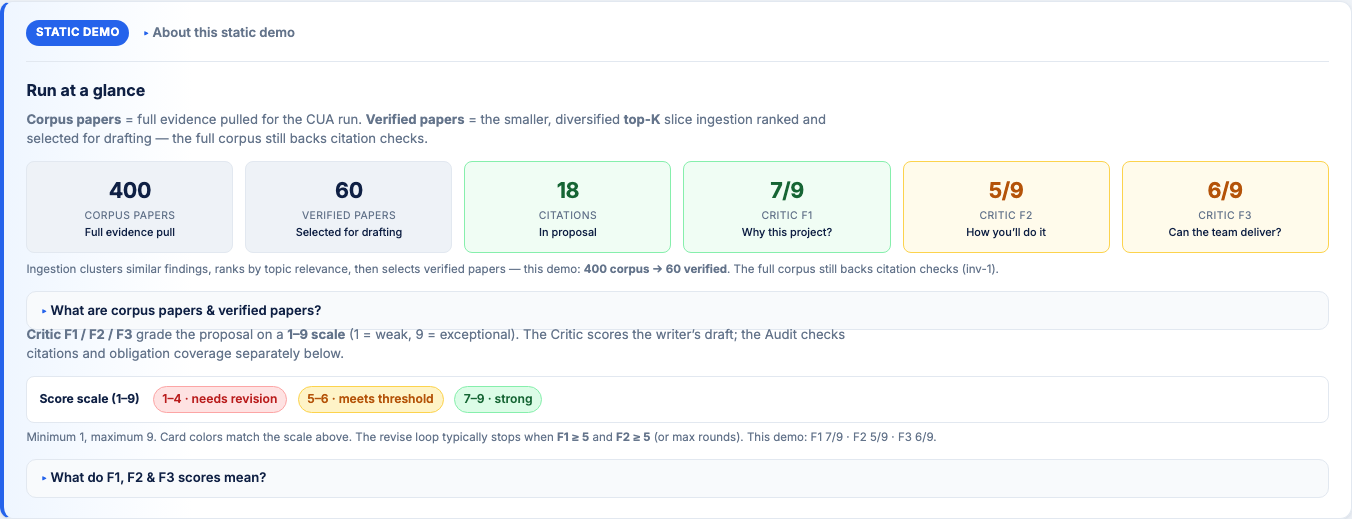
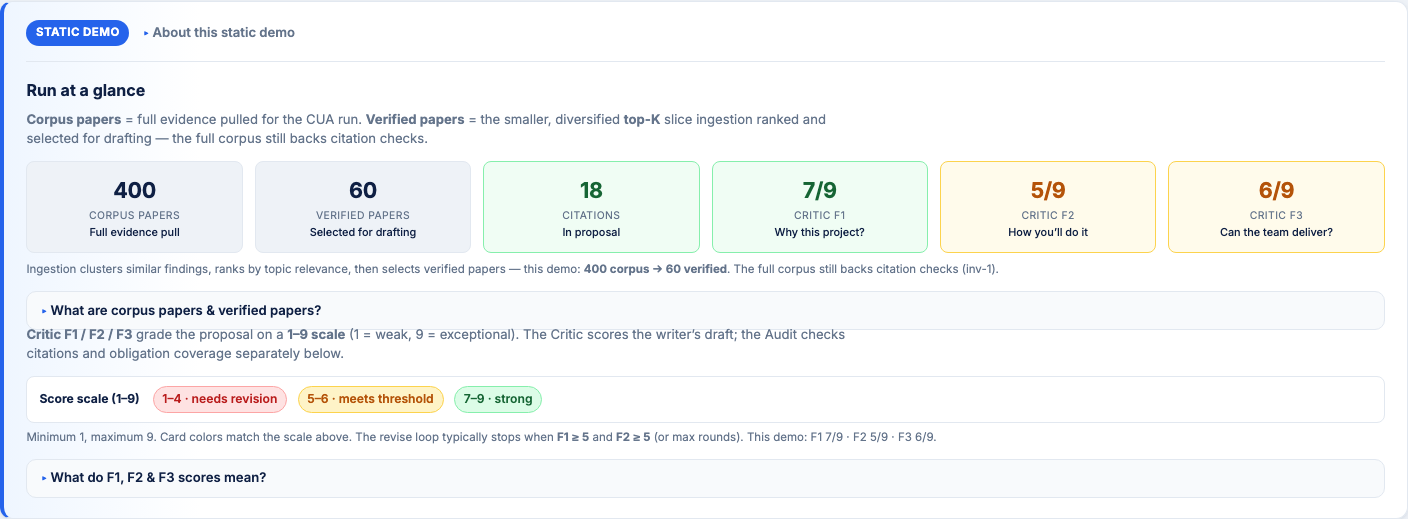
Use full-width dashboard layout with minimal side padding on all tabs.
Removes the 1400px centered column so Step 1–3 content spans the viewport; refreshes docs and screenshots.

diff --git a/neurodiscover/frontend/index.html b/neurodiscover/frontend/index.html
@@ -24,6 +24,7 @@
       --text: #0f172a;
       --muted: #64748b;
       --shadow: 0 1px 3px rgba(15,32,68,0.08), 0 4px 12px rgba(15,32,68,0.04);
+      --page-pad: 1rem;
     }
     * { box-sizing: border-box; }
     body {
@@ -38,10 +39,10 @@
     header {
       background: linear-gradient(135deg, var(--navy) 0%, var(--navy-light) 100%);
       color: #fff;
-      padding: 1rem 1.5rem 0.85rem;
+      padding: 1rem var(--page-pad) 0.85rem;
     }
     .header-inner {
-      max-width: 1400px;
+      max-width: 100%;
       margin: 0 auto;
       display: flex;
       align-items: flex-start;
@@ -92,9 +93,9 @@
       max-width: 100%;
     }
     .results-shell {
-      max-width: 1400px;
+      max-width: 100%;
       margin: 0 auto;
-      padding: 0 1.5rem 2rem;
+      padding: 0 var(--page-pad) 2rem;
       width: 100%;
       overflow-x: hidden;
       box-sizing: border-box;
@@ -120,7 +121,7 @@
       max-width: none;
     }
     .kpi-inner {
-      max-width: 1400px;
+      max-width: 100%;
       margin: 0 auto;
       display: grid;
       grid-template-columns: repeat(5, minmax(0, 1fr));
@@ -148,11 +149,11 @@
     .kpi-item.run-context .val { color: var(--primary); }
     .run-status-strip {
       border-bottom: 1px solid var(--border);
-      padding: 0.65rem 1.5rem;
+      padding: 0.65rem var(--page-pad);
       font-size: 0.85rem;
     }
     .run-status-inner {
-      max-width: 1400px;
+      max-width: 100%;
       margin: 0 auto;
       display: flex;
       flex-wrap: wrap;
@@ -227,14 +228,14 @@
     .tab-nav {
       background: #fff;
       border-bottom: 2px solid var(--border);
-      padding: 1rem 1.5rem 1.25rem;
+      padding: 1rem var(--page-pad) 1.25rem;
       position: sticky;
       top: 0;
       z-index: 100;
       box-shadow: 0 4px 14px rgba(15, 32, 68, 0.08);
     }
     .tab-nav-inner {
-      max-width: 1400px;
+      max-width: 100%;
       margin: 0 auto;
       display: grid;
       grid-template-columns: 1fr 1fr 1fr;
@@ -299,7 +300,7 @@
     .tab-btn-results.active .tab-step { background: #16a34a; }
     .tab-btn-cua.active { border-color: var(--primary); background: linear-gradient(135deg, #eff6ff 0%, #fff 100%); box-shadow: 0 4px 16px rgba(37, 99, 235, 0.18); }
     .tab-btn-cua.active .tab-step { background: var(--primary); color: #fff; }
-    .cua-wide { max-width: 1400px; margin: 0 auto; padding: 0.75rem 1.5rem 2rem; overflow-x: hidden; }
+    .cua-wide { max-width: 100%; margin: 0 auto; padding: 0.75rem var(--page-pad) 2rem; overflow-x: hidden; }
     .cua-shell-card {
       background: var(--card);
       border: 1px solid var(--border);
@@ -625,9 +626,9 @@
       vertical-align: middle;
     }
     .view-page-title {
-      max-width: 1400px;
+      max-width: 100%;
       margin: 0 auto;
-      padding: 1.25rem 1.5rem 0;
+      padding: 1.25rem var(--page-pad) 0;
       font-size: 1.15rem;
       font-weight: 700;
       color: var(--navy);
@@ -638,9 +639,9 @@
       flex-wrap: wrap;
       align-items: center;
       gap: 0.5rem 1rem;
-      max-width: 1400px;
+      max-width: 100%;
       margin: 0 auto;
-      padding: 1.25rem 1.5rem 0;
+      padding: 1.25rem var(--page-pad) 0;
     }
     .results-title-row .view-page-title { margin: 0; padding: 0; flex: 1 1 auto; }
     .results-title-row .badge.ok {
@@ -661,8 +662,8 @@
       display: grid;
       grid-template-columns: 1fr;
       gap: 1rem;
-      padding: 1rem 1.5rem 2rem;
-      max-width: 1400px;
+      padding: 1rem var(--page-pad) 2rem;
+      max-width: 100%;
       margin: 0 auto;
     }
     @media (max-width: 900px) {
@@ -854,7 +855,7 @@
       line-height: 1.45;
     }
     .pager { display: flex; gap: 0.5rem; align-items: center; margin-top: 0.75rem; }
-    .results-wide { max-width: 1400px; margin: 0 auto; padding: 1rem 1.5rem 2.5rem; }
+    .results-wide { max-width: 100%; margin: 0 auto; padding: 1rem 0 2.5rem; }
     .pipeline-v2 {
       background: var(--card);
       border: 1px solid var(--border);

diff --git a/docs/dashboard.md b/docs/dashboard.md
@@ -127,7 +127,7 @@ Tabs run left-to-right: **Configure & Run** · **Discovery Results** · **Grant 
 | Header | DB status badge and optional run id chip |
 | Run status | Ready / Running / Complete / Partial / Failed (all tabs) |
 | **Step 1** | Full-width **Discovery run configuration** only (no sidebar, local-mode banner, or demo-mode hint clutter) — pipeline mode, disease, max papers, extraction; short rescore banner; **Recent runs** table |
-| **Step 2** | Centered **results** column (max 1400px) — **KPI strip** (papers · trials · grants · subgroups · connections; database totals or **this run** after a pipeline) above the title; subtitle *Cohort, ranked outputs, & hypotheses*; **Pipeline complete** badge; three output panels — **research hypotheses** sets the scroll cap; **ideal candidate profiles** and **ranked outputs** borders fit their content (up to that cap) and scroll when longer (ranked bars label `Treatment · Subgroup`); discovery pipeline diagram; **Audit & provenance** collapsed by default |
+| **Step 2** | Full-width **results** shell (minimal side padding) — **KPI strip** (papers · trials · grants · subgroups · connections; database totals or **this run** after a pipeline) above the title; subtitle *Cohort, ranked outputs, & hypotheses*; **Pipeline complete** badge; three output panels — **research hypotheses** sets the scroll cap; **ideal candidate profiles** and **ranked outputs** borders fit their content (up to that cap) and scroll when longer (ranked bars label `Treatment · Subgroup`); discovery pipeline diagram; **Audit & provenance** collapsed by default |
 | **Step 3** | **Grant Proposal** — static `graded6` demo. Hero KPIs (corpus · verified papers · citations · Critic F1/F2/F3); **The proposal** expanded (aims + **PubMed ID** citations); **Grant pipeline** in its own collapsed block; toolbar **`x/y obligations satisfied`**; pipeline/audit prose behind collapsed **Pipeline trace & audit**. **Jump to** → Proposal · Grant pipeline · Supporting details. |
 
 ### Step 3 — report structure

diff --git a/neurodiscover/frontend/quickstart.md b/neurodiscover/frontend/quickstart.md
@@ -152,7 +152,7 @@ python3 cli.py dashboard --skip-install --no-browser
 
 1. **Step 1 — Configure & Run** — pick **pipeline mode** (Rescore DB / Demo sample / Incremental scan / Full live pull), disease (default **Parkinson's**), max papers, keywords, extraction backend.
 2. Click the **run button** (label matches the selected mode). The **run status strip** shows pipeline progress while agents run.
-3. **Step 2 — Discovery Results** — KPI strip and panels in a centered column (max 1400px); ideal candidate profiles and ranked treatments match the research hypotheses column height (scroll when longer; bars show `Treatment · Subgroup`); hypotheses use scores from **this run’s** recommendations; discovery pipeline diagram below; **Audit & provenance** collapsed by default — expand for agent trace + evidence table.
+3. **Step 2 — Discovery Results** — KPI strip and panels full-width (minimal side padding); ideal candidate profiles and ranked treatments match the research hypotheses column height (scroll when longer; bars show `Treatment · Subgroup`); hypotheses use scores from **this run’s** recommendations; discovery pipeline diagram below; **Audit & provenance** collapsed by default — expand for agent trace + evidence table.
 4. **Step 3 — Grant Proposal** — static bundled `graded6` demo (not tied to your `run_id`). Hero KPIs (corpus · verified papers · citations · Critic F1/F2/F3), **Jump to** (Proposal · Grant pipeline · Supporting details). **The proposal** stays expanded; **Grant pipeline** and **Pipeline trace & audit** are separate collapsed blocks. Report toolbar shows **`x/y obligations satisfied`**. **Run a live grant proposal (CLI)** is collapsible at the bottom. For a live run: `cd cua && pip install -e .` then `python -m cua.nih.run_db` with `ANTHROPIC_API_KEY` + `CUA_LIVE=1` (see `cua/README.md`).
 
 `make dashboard` only runs demo once at startup. Change settings and rerun from Step 1 while the servers stay up.

diff --git a/neurodiscover/frontend/mockup-v2.md b/neurodiscover/frontend/mockup-v2.md
@@ -8,4 +8,4 @@ The dashboard UI is implemented in `index.html` on `main`.
 
 Design reference: `neurodiscover_dashboard_mockup_v2.pdf` (add to `frontend/` if you want pixel-perfect comparison in-repo).
 
-Implemented highlights: **three tabs** (Configure & Run · Discovery Results · Grant Proposal), minimal header (DB LIVE + optional run chip), run status strip, Step 2 KPI strip, full-width Step 1 configure panel, Step 2 results (centered 1400px column · KPI strip above title · profiles · ranked outputs match hypotheses height, scroll when longer · hypotheses, then pipeline diagram, audit & provenance collapsed), recent runs table, Step 3 static grant proposal (corpus/verified-papers KPIs, expanded **proposal**, collapsed **Grant pipeline** + **Pipeline trace & audit**, **`x/y obligations satisfied`**, Jump to nav).
+Implemented highlights: **three tabs** (Configure & Run · Discovery Results · Grant Proposal), minimal header (DB LIVE + optional run chip), run status strip, Step 2 KPI strip, full-width layout on all tabs (minimal `--page-pad`), Step 2 results (KPI strip above title · profiles · ranked outputs match hypotheses height, scroll when longer · hypotheses, then pipeline diagram, audit & provenance collapsed), recent runs table, Step 3 static grant proposal (corpus/verified-papers KPIs, expanded **proposal**, collapsed **Grant pipeline** + **Pipeline trace & audit**, **`x/y obligations satisfied`**, Jump to nav).

diff --git a/docs/output.md b/docs/output.md
@@ -27,7 +27,7 @@ Layout top-to-bottom:
 ![Step 2 — Discovery results overview](/assets/images/dashboard/step2-discovery-results.png)
 {: .doc-screenshot }
 
-*Step 2 — centered column with KPI strip above title; ideal candidate profiles and ranked outputs cap at research hypotheses body height (borders wrap content; scroll when longer); ranked bars show treatment · subgroup; discovery pipeline and audit & provenance below.*
+*Step 2 — full-width results shell with KPI strip above title; ideal candidate profiles and ranked outputs cap at research hypotheses body height (borders wrap content; scroll when longer); ranked bars show treatment · subgroup; discovery pipeline and audit & provenance below.*
 
 ---
 

diff --git a/docs/guides.md b/docs/guides.md
@@ -114,7 +114,7 @@ Refresh dashboard screenshots after UI changes:
 cd neurodiscover
 make dashboard --no-browser   # or running API :5000 + UI :8080
 python3 scripts/capture_dashboard_screenshots.py
-# → Step 2 overview captures .results-shell (centered column)
+# → Step 2 overview captures .results-shell (full-width)
 ```
 
 ## Site publishing
